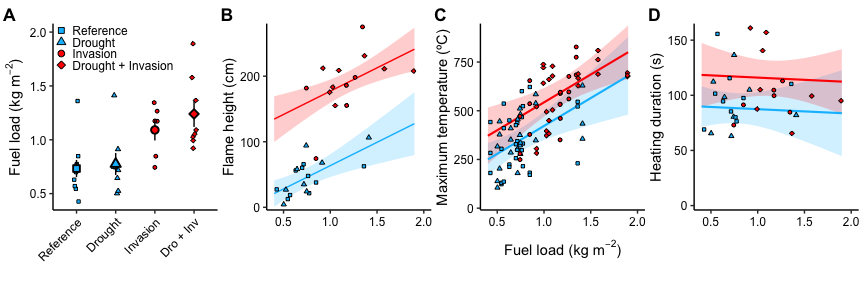
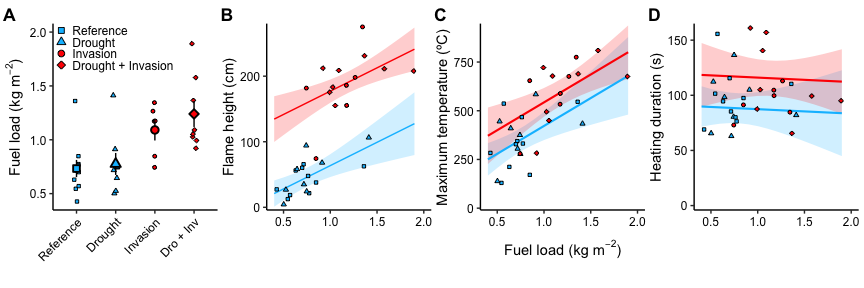
Update data points included in figures.

diff --git a/drought_invasion_fire.md b/drought_invasion_fire.md
@@ -1,7 +1,7 @@
 Interacting global change drivers suppress a foundation tree species
 ================
 S.L. Flory, W.W. Dillon, D. Hiatt
-2021-06-08
+2022-01-06
 
 -   [Abstract](#abstract)
 -   [Figure 1. Treatment effects on
@@ -33,6 +33,8 @@ S.L. Flory, W.W. Dillon, D. Hiatt
         summary](#table-s10-management-model-summary)
     -   [Table S11. Management model
         summary](#table-s11-management-model-summary)
+    -   [Tree height multiple
+        comparison](#tree-height-multiple-comparison)
 -   [Supplemental Figures](#supplemental-figures)
     -   [Figure S1. Fuel load vs. maximum temperature or heating
         duration at each probe
@@ -392,6 +394,179 @@ predictions are illustrated in Figure 3.
 Table S11. Management model predictions. Average survival probability
 with or without invasion across a range of tree heights for three
 different fuel loads.
+
+## Tree height multiple comparison
+
+| Treatment          | nobs | avg\_ht |    sd |
+|:-------------------|-----:|--------:|------:|
+| Reference          |   75 |   305.6 | 188.0 |
+| Drought            |   30 |   382.3 | 156.4 |
+| Invasion           |   19 |   453.8 | 150.2 |
+| Drought + Invasion |   32 |   313.2 | 159.0 |
+
+Average tree height
+
+    ## Analysis of Deviance Table (Type II Wald F tests with Kenward-Roger df)
+    ## 
+    ## Response: tree_height_cm
+    ##                F Df Df.res  Pr(>F)  
+    ## Treatment 3.0838  3 24.195 0.04624 *
+    ## ---
+    ## Signif. codes:  0 '***' 0.001 '**' 0.01 '*' 0.05 '.' 0.1 ' ' 1
+
+![](drought_invasion_fire_files/figure-gfm/tree%20height%20model-1.png)<!-- -->
+<table style="border-collapse:collapse; border:none;">
+<tr>
+<th style="border-top: double; text-align:center; font-style:normal; font-weight:bold; padding:0.2cm;  text-align:left; ">
+ 
+</th>
+<th colspan="3" style="border-top: double; text-align:center; font-style:normal; font-weight:bold; padding:0.2cm; ">
+tree\_height\_cm
+</th>
+</tr>
+<tr>
+<td style=" text-align:center; border-bottom:1px solid; font-style:italic; font-weight:normal;  text-align:left; ">
+Predictors
+</td>
+<td style=" text-align:center; border-bottom:1px solid; font-style:italic; font-weight:normal;  ">
+Estimates
+</td>
+<td style=" text-align:center; border-bottom:1px solid; font-style:italic; font-weight:normal;  ">
+CI
+</td>
+<td style=" text-align:center; border-bottom:1px solid; font-style:italic; font-weight:normal;  ">
+p
+</td>
+</tr>
+<tr>
+<td style=" padding:0.2cm; text-align:left; vertical-align:top; text-align:left; ">
+(Intercept)
+</td>
+<td style=" padding:0.2cm; text-align:left; vertical-align:top; text-align:center;  ">
+303.98
+</td>
+<td style=" padding:0.2cm; text-align:left; vertical-align:top; text-align:center;  ">
+252.68 – 355.28
+</td>
+<td style=" padding:0.2cm; text-align:left; vertical-align:top; text-align:center;  ">
+<strong>&lt;0.001
+</td>
+</tr>
+<tr>
+<td style=" padding:0.2cm; text-align:left; vertical-align:top; text-align:left; ">
+Treatment \[Drought\]
+</td>
+<td style=" padding:0.2cm; text-align:left; vertical-align:top; text-align:center;  ">
+71.34
+</td>
+<td style=" padding:0.2cm; text-align:left; vertical-align:top; text-align:center;  ">
+-20.65 – 163.32
+</td>
+<td style=" padding:0.2cm; text-align:left; vertical-align:top; text-align:center;  ">
+0.129
+</td>
+</tr>
+<tr>
+<td style=" padding:0.2cm; text-align:left; vertical-align:top; text-align:left; ">
+Treatment \[Invasion\]
+</td>
+<td style=" padding:0.2cm; text-align:left; vertical-align:top; text-align:center;  ">
+143.88
+</td>
+<td style=" padding:0.2cm; text-align:left; vertical-align:top; text-align:center;  ">
+41.56 – 246.21
+</td>
+<td style=" padding:0.2cm; text-align:left; vertical-align:top; text-align:center;  ">
+<strong>0.006</strong>
+</td>
+</tr>
+<tr>
+<td style=" padding:0.2cm; text-align:left; vertical-align:top; text-align:left; ">
+Treatment \[Drought +<br>Invasion\]
+</td>
+<td style=" padding:0.2cm; text-align:left; vertical-align:top; text-align:center;  ">
+-1.25
+</td>
+<td style=" padding:0.2cm; text-align:left; vertical-align:top; text-align:center;  ">
+-89.72 – 87.22
+</td>
+<td style=" padding:0.2cm; text-align:left; vertical-align:top; text-align:center;  ">
+0.978
+</td>
+</tr>
+<tr>
+<td colspan="4" style="font-weight:bold; text-align:left; padding-top:.8em;">
+Random Effects
+</td>
+</tr>
+<tr>
+<td style=" padding:0.2cm; text-align:left; vertical-align:top; text-align:left; padding-top:0.1cm; padding-bottom:0.1cm;">
+σ<sup>2</sup>
+</td>
+<td style=" padding:0.2cm; text-align:left; vertical-align:top; padding-top:0.1cm; padding-bottom:0.1cm; text-align:left;" colspan="3">
+27139.59
+</td>
+<tr>
+<td style=" padding:0.2cm; text-align:left; vertical-align:top; text-align:left; padding-top:0.1cm; padding-bottom:0.1cm;">
+τ<sub>00</sub> <sub>Plot</sub>
+</td>
+<td style=" padding:0.2cm; text-align:left; vertical-align:top; padding-top:0.1cm; padding-bottom:0.1cm; text-align:left;" colspan="3">
+2874.47
+</td>
+<tr>
+<td style=" padding:0.2cm; text-align:left; vertical-align:top; text-align:left; padding-top:0.1cm; padding-bottom:0.1cm;">
+ICC
+</td>
+<td style=" padding:0.2cm; text-align:left; vertical-align:top; padding-top:0.1cm; padding-bottom:0.1cm; text-align:left;" colspan="3">
+0.10
+</td>
+<tr>
+<td style=" padding:0.2cm; text-align:left; vertical-align:top; text-align:left; padding-top:0.1cm; padding-bottom:0.1cm;">
+N <sub>Plot</sub>
+</td>
+<td style=" padding:0.2cm; text-align:left; vertical-align:top; padding-top:0.1cm; padding-bottom:0.1cm; text-align:left;" colspan="3">
+32
+</td>
+<tr>
+<td style=" padding:0.2cm; text-align:left; vertical-align:top; text-align:left; padding-top:0.1cm; padding-bottom:0.1cm; border-top:1px solid;">
+Observations
+</td>
+<td style=" padding:0.2cm; text-align:left; vertical-align:top; padding-top:0.1cm; padding-bottom:0.1cm; text-align:left; border-top:1px solid;" colspan="3">
+156
+</td>
+</tr>
+<tr>
+<td style=" padding:0.2cm; text-align:left; vertical-align:top; text-align:left; padding-top:0.1cm; padding-bottom:0.1cm;">
+Marginal R<sup>2</sup> / Conditional R<sup>2</sup>
+</td>
+<td style=" padding:0.2cm; text-align:left; vertical-align:top; padding-top:0.1cm; padding-bottom:0.1cm; text-align:left;" colspan="3">
+0.078 / 0.167
+</td>
+</tr>
+</table>
+
+    ## 
+    ##   Simultaneous Tests for General Linear Hypotheses
+    ## 
+    ## Multiple Comparisons of Means: Tukey Contrasts
+    ## 
+    ## 
+    ## Fit: lmer(formula = tree_height_cm ~ Treatment + (1 | Plot), data = dat25cm)
+    ## 
+    ## Linear Hypotheses:
+    ##                                     Estimate Std. Error z value Pr(>|z|)  
+    ## Drought - Reference == 0              71.339     46.932   1.520   0.4210  
+    ## Invasion - Reference == 0            143.882     52.208   2.756   0.0294 *
+    ## Drought + Invasion - Reference == 0   -1.251     45.140  -0.028   1.0000  
+    ## Invasion - Drought == 0               72.544     59.652   1.216   0.6125  
+    ## Drought + Invasion - Drought == 0    -72.589     53.575  -1.355   0.5235  
+    ## Drought + Invasion - Invasion == 0  -145.133     58.252  -2.491   0.0599 .
+    ## ---
+    ## Signif. codes:  0 '***' 0.001 '**' 0.01 '*' 0.05 '.' 0.1 ' ' 1
+    ## (Adjusted p values reported -- single-step method)
+
+    ##          Reference            Drought           Invasion Drought + Invasion 
+    ##                "a"               "ab"                "b"               "ab"
 
 # Supplemental Figures
 
